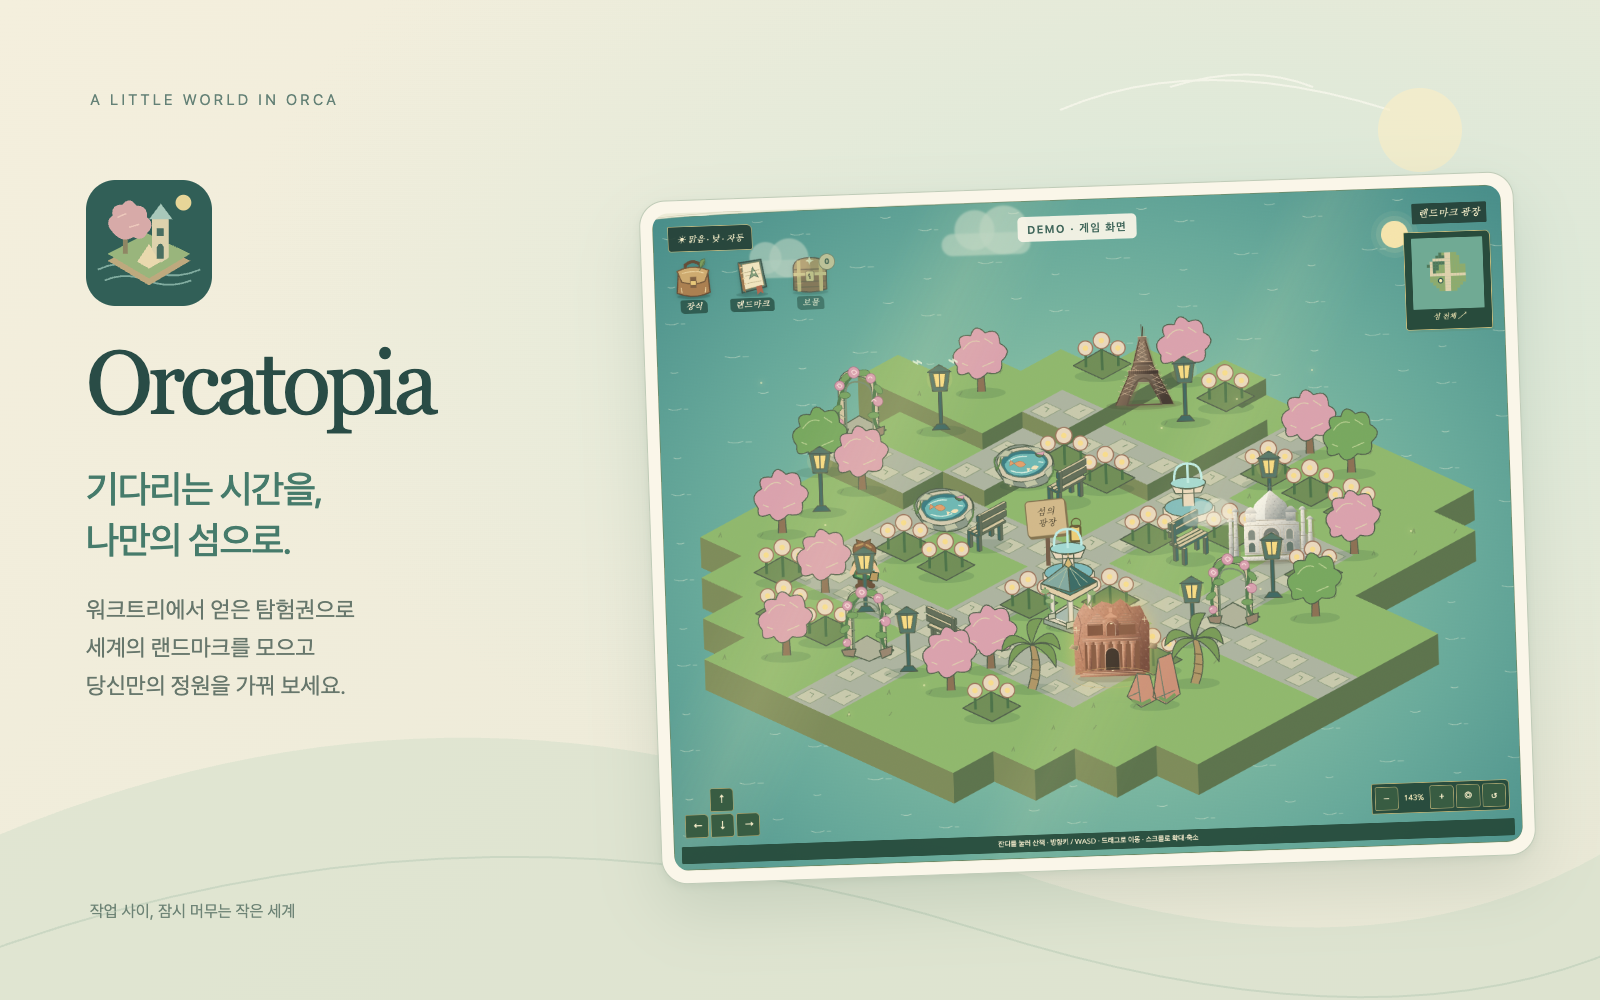
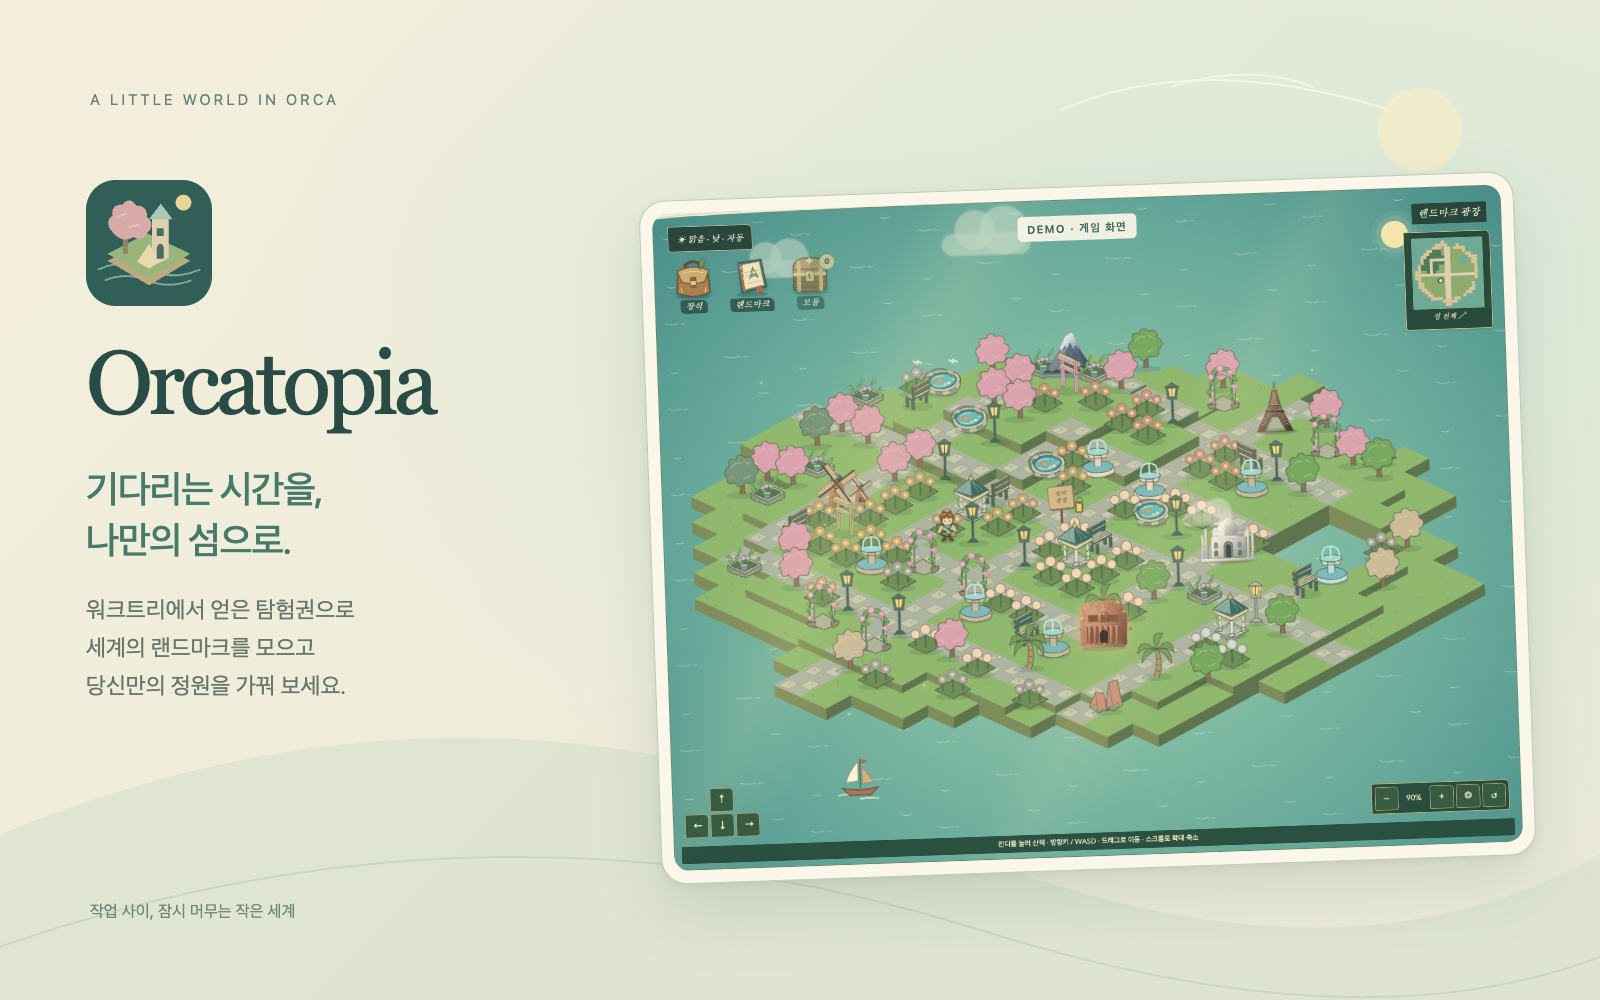
Expand showcase into a full island garden

Changed region(s): [[0.4062, 0.31, 0.9375, 0.806], [0.875, 0.248, 0.9375, 0.31]]

diff --git a/plugins/landmark-island/tests/showcase.spec.ts b/plugins/landmark-island/tests/showcase.spec.ts
@@ -1,8 +1,8 @@
 import { introductionHtml } from './introduction';
 import { test, expect } from '@playwright/test';
-import { empty, validate } from '../src/game';
+import { empty, validate, islandLand } from '../src/game';
 import { decorationById, DUPLICATE_MATERIALS } from '../src/decorations';
-import { at, landAtLevel } from '../src/world';
+import { at, landAtLevel, landTiles, neighbours } from '../src/world';
 
 test('Orcatopia showcase keeps legacy storage and shows an English fixture island', async ({
   page,
@@ -13,88 +13,163 @@ test('Orcatopia showcase keeps legacy storage and shows an English fixture islan
     fixture.tickets.push({ workspaceId, at: '2026-11-07' });
     fixture.receipts.push({ workspaceId, landmark, at: '2026-11-07' });
   };
-  for (const landmark of ['eiffel', 'taj', 'petra', 'fuji']) acquire(landmark);
+  // Twelve collected destinations unlock the complete island through normal rules.
+  for (const landmark of [
+    'eiffel',
+    'taj',
+    'petra',
+    'fuji',
+    'kinderdijk',
+    'angkor',
+    'stonehenge',
+    'hagia',
+    'sagrada',
+    'opera',
+    'colosseum',
+    'belem',
+  ])
+    acquire(landmark);
   fixture.placements = [
-    { landmark: 'eiffel', cell: at(9, 7)! },
-    { landmark: 'taj', cell: at(14, 9)! },
-    { landmark: 'petra', cell: at(15, 14)! },
+    { landmark: 'eiffel', cell: at(12, 4)! },
+    { landmark: 'fuji', cell: at(6, 6)! },
+    { landmark: 'taj', cell: at(16, 10)! },
+    { landmark: 'kinderdijk', cell: at(6, 15)! },
+    { landmark: 'petra', cell: at(17, 16)! },
   ];
-  // A promenade loops around four planted courts, with open cross paths.
-  const land = landAtLevel(4);
+  const land = landAtLevel(12);
+  // The inner promenade and outer ramble join at a central open cross.
   const promenade = (col: number, row: number) =>
     col === 11 ||
     row === 11 ||
-    ((row === 8 || row === 14) && col >= 8 && col <= 14) ||
-    ((col === 8 || col === 14) && row >= 8 && row <= 14);
+    ((row === 8 || row === 15) && col >= 8 && col <= 15) ||
+    ((col === 8 || col === 15) && row >= 8 && row <= 15) ||
+    (row === 5 && col >= 7 && col <= 15) ||
+    (row === 18 && col >= 5 && col <= 18) ||
+    (col === 5 && row >= 8 && row <= 18) ||
+    (col === 18 && row >= 10 && row <= 18);
   for (const tile of land)
     fixture.floors.push({
       cell: tile.id,
       decoration: promenade(tile.col, tile.row) ? 'stonepath' : 'grass',
     });
   const garden: [string, number, number, number?][] = [
-    // Cherry grove and water garden, with benches facing the ponds.
-    ['fuji-pond', 9, 10],
-    ['fuji-pond', 9, 12],
-    ['fuji-gift', 7, 9],
-    ['fuji-gift', 7, 12],
-    ['fuji-gift', 7, 14],
-    ['fuji-gift', 9, 15],
-    ['fuji-gift', 13, 15],
-    ['fuji-gift', 9, 6],
-    ['fuji-gift', 12, 6],
-    ['fuji-gift', 15, 8],
-    ['eiffel-special', 10, 10, 1],
-    ['eiffel-special', 10, 12, 1],
-    // A pavilion and matching fountains anchor the formal flower garden.
-    ['taj-pavilion', 13, 13],
+    // Central parterre: open sight lines, paired water features and flower beds.
+    ['taj-special', 10, 9],
     ['taj-special', 12, 9],
-    ['taj-special', 12, 12],
-    ['eiffel-special', 13, 10, 3],
-    ['eiffel-special', 12, 15, 2],
-    ['eiffel-rose-arch', 11, 16],
-    ['eiffel-rose-arch', 6, 11],
-    ['eiffel-rose-arch', 15, 11],
-    // Paired lanterns mark the garden entrances, without filling the paths.
-    ['eiffel-gift', 10, 15],
-    ['eiffel-gift', 12, 16],
+    ['taj-pavilion', 13, 13],
+    ['taj-pavilion', 9, 13],
+    ['fuji-pond', 9, 10],
+    ['fuji-pond', 13, 10],
+    ['eiffel-special', 9, 12, 1],
+    ['eiffel-special', 13, 12, 3],
+    ['eiffel-rose-arch', 10, 16],
+    ['eiffel-rose-arch', 12, 16],
+    ['eiffel-gift', 10, 14],
+    ['eiffel-gift', 12, 14],
     ['eiffel-gift', 7, 10],
-    ['eiffel-gift', 7, 13],
-    ['eiffel-gift', 10, 7],
-    ['eiffel-gift', 13, 8],
-    ['eiffel-gift', 15, 10],
-    ['eiffel-gift', 15, 12],
-    ['petra-gift', 16, 13],
-    ['petra-gift', 14, 15],
-    ['petra-special', 16, 14],
-    // Green canopies frame the pink grove and soften the outer lawns.
-    ['oak', 6, 12],
-    ['oak', 16, 10],
-    ['oak', 13, 6],
-    ['fuji-gift', 10, 17],
-    ['fuji-gift', 13, 16],
-    ['taj-gift', 9, 16],
-    ['taj-gift', 10, 16],
-    ['taj-gift', 14, 16],
-    ['taj-gift', 14, 7],
-    ['taj-gift', 10, 6],
-    ['taj-gift', 13, 7],
+    ['eiffel-gift', 7, 12],
+    ['eiffel-gift', 16, 12],
+    ['eiffel-gift', 14, 10],
+    // A cherry grove descends from the mountain to a quiet pond terrace.
+    ['fuji-pond', 4, 9],
+    ['fuji-pond', 6, 10],
+    ['fuji-gift', 4, 7],
+    ['fuji-gift', 6, 8],
+    ['fuji-gift', 8, 6],
+    ['fuji-gift', 4, 12],
+    ['fuji-gift', 6, 13],
+    ['fuji-gift', 7, 9],
+    ['fuji-special', 7, 7],
+    ['eiffel-special', 4, 10, 1],
+    ['angkor-fern-bed', 5, 6],
+    ['angkor-fern-bed', 7, 6],
+    // Rose garden behind the tower; fountains and benches face the lagoon.
+    ['eiffel-rose-arch', 10, 4],
+    ['eiffel-rose-arch', 14, 4],
+    ['eiffel-special', 13, 6, 2],
+    ['belem-special', 14, 7],
+    ['eiffel-gift', 10, 6],
+    ['eiffel-gift', 14, 6],
+    ['fuji-gift', 9, 3],
+    ['fuji-gift', 13, 3],
+    ['fuji-gift', 15, 4],
+    ['opera-special', 19, 9],
+    ['eiffel-special', 19, 10, 3],
+    ['colosseum-gift', 19, 6],
+    ['colosseum-gift', 20, 8],
+    ['taj-pavilion', 19, 13],
+    ['belem-gift', 19, 12],
+    // A windmill meadow, a woodland rest and an oasis at the southern shore.
+    ['kinderdijk-special', 7, 16],
+    ['eiffel-special', 6, 17, 1],
+    ['fuji-gift', 4, 15],
+    ['fuji-gift', 7, 18],
+    ['angkor-gift', 3, 13],
+    ['angkor-gift', 3, 16],
+    ['angkor-fern-bed', 4, 14],
+    ['angkor-fern-bed', 4, 16],
+    ['colosseum-special', 9, 17],
+    ['colosseum-special', 13, 17],
+    ['eiffel-gift', 10, 19],
+    ['eiffel-gift', 12, 19],
+    ['eiffel-rose-arch', 10, 20],
+    ['eiffel-rose-arch', 12, 20],
+    ['fuji-gift', 8, 19],
+    ['fuji-gift', 14, 19],
+    ['petra-gift', 16, 15],
+    ['petra-gift', 19, 16],
+    ['petra-gift', 16, 18],
+    ['petra-special', 19, 18],
+    ['belem-special', 16, 17],
+    ['eiffel-special', 15, 17, 3],
+    ['oak', 16, 13],
+    ['oak', 7, 4],
+    ['oak', 15, 6],
+    ['oak', 20, 12],
+    ['oak', 20, 15],
+    ['oak', 16, 4],
+    ['hagia-gift', 15, 3],
+    ['stonehenge-gift', 3, 9],
+    ['opera-gift', 19, 14],
+    ['opera-gift', 20, 14],
+    ['angkor-fern-bed', 17, 12],
   ];
-  // Low flower borders repeat around the courts; taller pieces stay spaced.
-  const reserved = new Set([
-    ...fixture.placements.map((p) => p.cell),
-    ...garden.map(([, col, row]) => at(col, row)!),
-  ]);
+  const reserved = new Set(fixture.placements.map((p) => p.cell));
+  for (const [, col, row] of garden) {
+    const cell = at(col, row)!;
+    expect(reserved.has(cell)).toBe(false);
+    reserved.add(cell);
+  }
+  // Repeated border planting ties the distinct gardens together. Keep lawn gaps
+  // between the formal beds and the trees, rather than filling every free cell.
   for (const tile of land) {
-    if (reserved.has(tile.id) || promenade(tile.col, tile.row)) continue;
     const { col, row } = tile;
-    if (
-      (col >= 9 && col <= 13 && row >= 9 && row <= 13) ||
-      (row === 7 && col >= 8 && col <= 13) ||
-      (row === 15 && col >= 8 && col <= 14) ||
-      (col === 15 && row >= 9 && row <= 13) ||
-      (col === 7 && row >= 9 && row <= 14)
-    )
-      garden.push(['taj-gift', col, row]);
+    if (reserved.has(tile.id) || promenade(col, row)) continue;
+    const formal = col >= 9 && col <= 14 && row >= 9 && row <= 14;
+    const border =
+      ((row === 7 || row === 16) && col >= 8 && col <= 14) ||
+      ((col === 7 || col === 16) && row >= 8 && row <= 15) ||
+      (row === 6 && col >= 9 && col <= 14) ||
+      (row === 19 && col >= 9 && col <= 15);
+    const meadow = col >= 6 && col <= 9 && row >= 16 && row <= 17;
+    if (formal || border || meadow) {
+      const flower = meadow
+        ? 'kinderdijk-gift'
+        : row < 9
+          ? 'hagia-gift'
+          : col < 11
+            ? 'sagrada-gift'
+            : 'taj-gift';
+      garden.push([flower, col, row]);
+    } else if (
+      col % 3 === 0 &&
+      row % 3 === 0 &&
+      neighbours(tile.id).length === 4
+    ) {
+      garden.push([col < 11 ? 'fuji-gift' : 'colosseum-gift', col, row]);
+    } else if ((col + row * 2) % 11 === 0 && row > 6) {
+      garden.push([col < 8 ? 'angkor-fern-bed' : 'stonehenge-gift', col, row]);
+    }
   }
   const used = new Map<string, number>();
   for (const [decoration, col, row, rotation] of garden) {
@@ -120,6 +195,25 @@ test('Orcatopia showcase keeps legacy storage and shows an English fixture islan
   for (let i = 0; i < Math.ceil(cost / DUPLICATE_MATERIALS); i++)
     acquire('eiffel');
   const save = validate(fixture);
+  expect(islandLand(save)).toHaveLength(landTiles.length);
+  expect(landTiles).toHaveLength(318);
+  expect(save.floors).toHaveLength(318);
+  // Every walkable lawn and path must remain reachable in the decorated layout.
+  const blocked = new Set([
+    ...save.placements.map((p) => p.cell),
+    ...save.decorations
+      .filter((p) => !decorationById(p.decoration)!.walkable)
+      .map((p) => p.cell),
+  ]);
+  const reached = new Set([at(11, 11)!]);
+  for (const cell of reached)
+    for (const next of neighbours(cell))
+      if (!blocked.has(next)) reached.add(next);
+  expect(
+    land
+      .filter((t) => !blocked.has(t.id) && !reached.has(t.id))
+      .map((t) => [t.col, t.row]),
+  ).toEqual([]);
   await page.addInitScript((save) => {
     localStorage.setItem('landmark-island-demo-v1', JSON.stringify(save));
   }, save);

diff --git a/docs/screenshots/README.ko.md b/docs/screenshots/README.ko.md
@@ -35,7 +35,7 @@ pnpm nx run git-logs:preview
 
 ## Orcatopia
 
-[orcatopia-island.png](orcatopia-island.png)은 에펠탑·타지마할·페트라 주변을 벚나무, 꽃밭, 석재 산책로, 대리석 분수, 카페 벤치와 가로등으로 꾸민 영문 정원 fixture입니다. 기존 게임 장식만 사용하며 보유 수량과 제작 기록을 검증한 배치입니다. 전체 페이지 캡처로 DEMO 표시를 유지합니다. 실제 사용자 저장이나 Orca 호스트 캡처가 아닙니다.
+[orcatopia-island.png](orcatopia-island.png)은 최대로 확장한 섬에 에펠탑·후지산·타지마할·킨더다이크·페트라와 벚꽃 숲, 화단, 석재 산책로, 분수, 파빌리온, 연못, 가로등을 배치한 영문 정원 fixture입니다. 기존 게임 장식만 사용하며 보유 수량과 제작 기록을 검증한 배치입니다. 전체 페이지 캡처로 DEMO 표시를 유지합니다. 실제 사용자 저장이나 Orca 호스트 캡처가 아닙니다.
 
 다음 명령으로 다시 생성하고 복사합니다.
 
@@ -48,7 +48,7 @@ cp test-results/landmark-island/orcatopia-island-demo.png docs/screenshots/orcat
 
 [영어 소개](../../plugins/landmark-island/assets/orcatopia-introduction.png)와 [한국어 소개](../../plugins/landmark-island/assets/orcatopia-introduction.ko.png)는 1600 × 1000 홍보 이미지입니다. 직접 그린 섬 아이콘, Orcatopia 제품명, 짧은 소개 문구와 실제 브라우저에서 촬영한 fixture 정원을 함께 보여 줍니다. 화면에는 DEMO 표시를 명시합니다. 시스템 글꼴과 로컬 SVG/CSS로 구성하며 다운로드한 폰트나 생성형 게임 화면은 포함하지 않습니다. 영어·한국어 플러그인 README의 첫 이미지로 각각 사용합니다. 설치 후에도 같은 상대 경로가 작동하도록 두 이미지를 패키지의 `assets/`에 포함합니다.
 
-재생성 가능한 레이아웃은 `plugins/landmark-island/tests/introduction.ts`에 있습니다. showcase 테스트에서 언어별 실제 게임 화면을 촬영한 뒤 소개 이미지를 구성합니다. 정원은 해금된 130칸 전체에 잔디와 순환 산책로, 교차하는 길을 배치합니다. 벚나무와 참나무가 두 개의 잉어 연못, 꽃 테두리, 분수 한 쌍, 파빌리온, 장미 아치 입구를 감쌉니다. 세 랜드마크는 간격을 두고 정원의 중심 경관으로 배치합니다. 유료 제작 장식은 정상 보유·제작 기록을 사용하며 실제 섬 저장 데이터는 변경하지 않습니다.
+재생성 가능한 레이아웃은 `plugins/landmark-island/tests/introduction.ts`에 있습니다. showcase 테스트에서 언어별 실제 게임 화면을 촬영한 뒤 소개 이미지를 구성합니다. 정원은 fixture의 12종 수집 기록으로 최대 318칸을 해금합니다. 랜드마크 5종 사이로 중앙 화단, 벚꽃 숲, 연못 쉼터, 풍차 초원과 해안 산책길을 조성합니다. 유료 제작 장식은 정상 보유·제작 기록을 사용합니다. showcase 테스트에서 최대 확장과 보행 연결성을 검증하며 실제 섬 저장 데이터는 변경하지 않습니다.
 
 ```sh
 pnpm nx run landmark-island:ui-test --grep='Orcatopia showcase'

diff --git a/docs/screenshots/README.md b/docs/screenshots/README.md
@@ -35,7 +35,7 @@ See the [repository README](../../README.md) and [development guide](../developm
 
 ## Orcatopia
 
-[orcatopia-island.png](orcatopia-island.png) shows an English garden fixture: Eiffel Tower, Taj Mahal and Petra surrounded by cherry trees, flower beds, stone paths, a marble fountain, café benches and lanterns. All decorations use existing game assets and a validated ownership/crafting ledger. The full-page capture retains the DEMO label. It contains no real user save and is not a native Orca capture.
+[orcatopia-island.png](orcatopia-island.png) shows an English garden fixture: Eiffel Tower, Mount Fuji, Taj Mahal, Kinderdijk and Petra in a fully expanded garden with cherry groves, flower beds, stone promenades, fountains, pavilions, ponds and lanterns. All decorations use existing game assets and a validated ownership/crafting ledger. The full-page capture retains the DEMO label. It contains no real user save and is not a native Orca capture.
 
 Regenerate and copy it with:
 
@@ -48,7 +48,7 @@ cp test-results/landmark-island/orcatopia-island-demo.png docs/screenshots/orcat
 
 [English introduction](../../plugins/landmark-island/assets/orcatopia-introduction.png) and [Korean introduction](../../plugins/landmark-island/assets/orcatopia-introduction.ko.png) are 1600 × 1000 promotional compositions: an original island emblem, the Orcatopia name, a short product description and a real browser capture of the fixture garden. The screenshot retains an explicit DEMO label. The composition uses system fonts and local SVG/CSS; it includes no downloaded fonts or generated game imagery. The English image leads the English plugin README; the Korean image leads its Korean counterpart. Both are bundled under `assets/` so the same relative README links work after installation.
 
-The reproducible layout is `plugins/landmark-island/tests/introduction.ts`; the showcase test captures the running game separately in each language before composing the images. The garden uses all 130 unlocked tiles for lawns, a loop promenade and crossing paths. Cherry trees and oaks frame twin koi ponds, flower borders, paired fountains, a pavilion and rose arch entrances. Three landmarks remain spaced apart as focal points. All paid decorations use the normal ownership and crafting ledger; this fixture does not modify a real island save.
+The reproducible layout is `plugins/landmark-island/tests/introduction.ts`; the showcase test captures the running game separately in each language before composing the images. The garden uses the maximum 318 land tiles, unlocked by twelve unique fixture collections. Five placed landmarks frame a central flower garden, a cherry grove, pond terraces, a windmill meadow and coastal walks. All paid decorations use the normal ownership and crafting ledger. The showcase test checks full expansion and walking connectivity; this fixture does not modify a real island save.
 
 ```sh
 pnpm nx run landmark-island:ui-test --grep='Orcatopia showcase'
